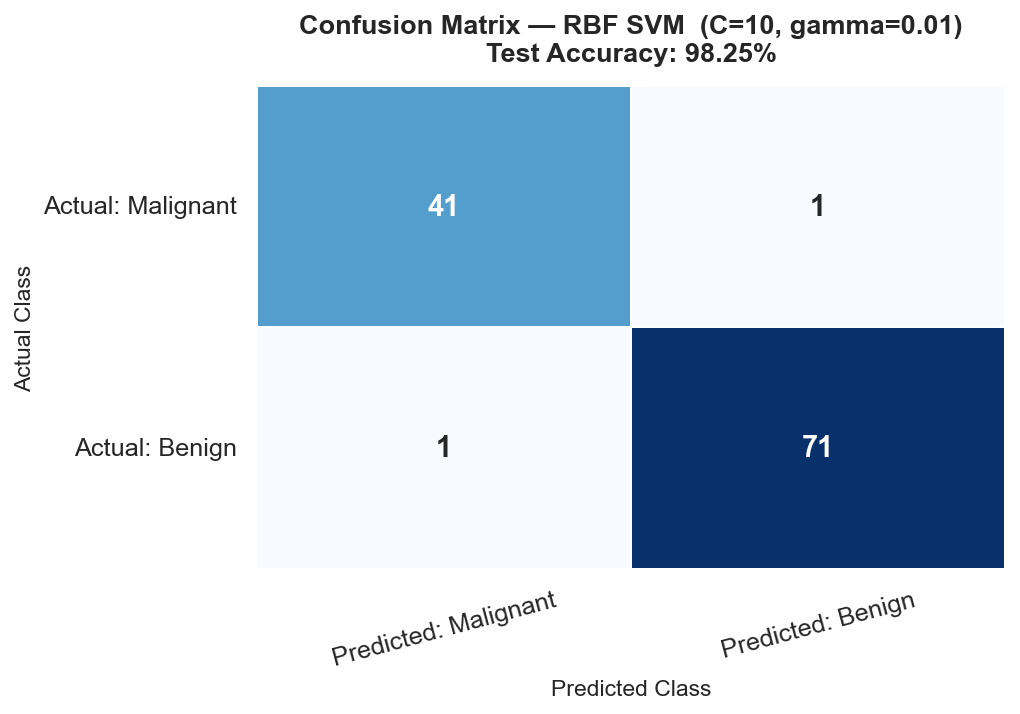
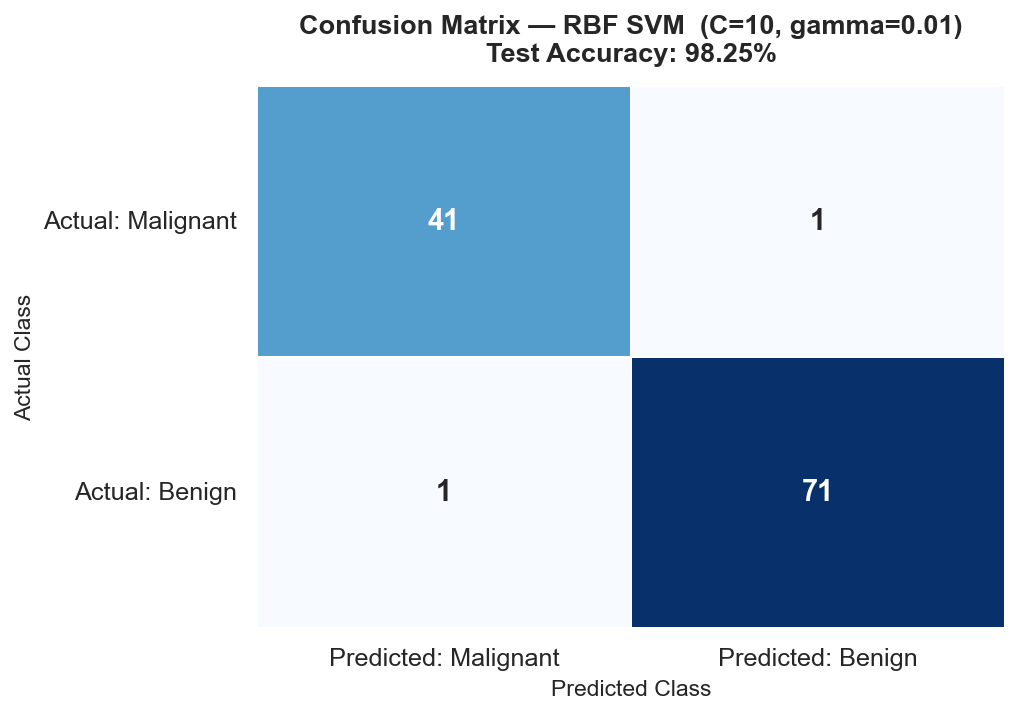
SVM update

diff --git a/support-vector-machines/svm_breast_cancer.py b/support-vector-machines/svm_breast_cancer.py
@@ -385,7 +385,7 @@ ax.set_title(
 )
 ax.set_xlabel("Predicted Class", fontsize=11)
 ax.set_ylabel("Actual Class", fontsize=11)
-ax.tick_params(axis="x", rotation=15)
+ax.tick_params(axis="x", rotation=0)
 ax.tick_params(axis="y", rotation=0)
 
 plt.tight_layout()
@@ -472,7 +472,8 @@ sns.barplot(
     x        = "Class",
     y        = "Count",
     hue      = "Type",
-    palette  = {"Support Vectors": "#5B8DB8", "Non-Support Vectors": "#D4E6F1"},
+    palette  = "Greens",
+    # palette  = {"Support Vectors": "#5B8DB8", "Non-Support Vectors": "#D4E6F1"},
     errorbar = None,
     ax       = ax
 )
